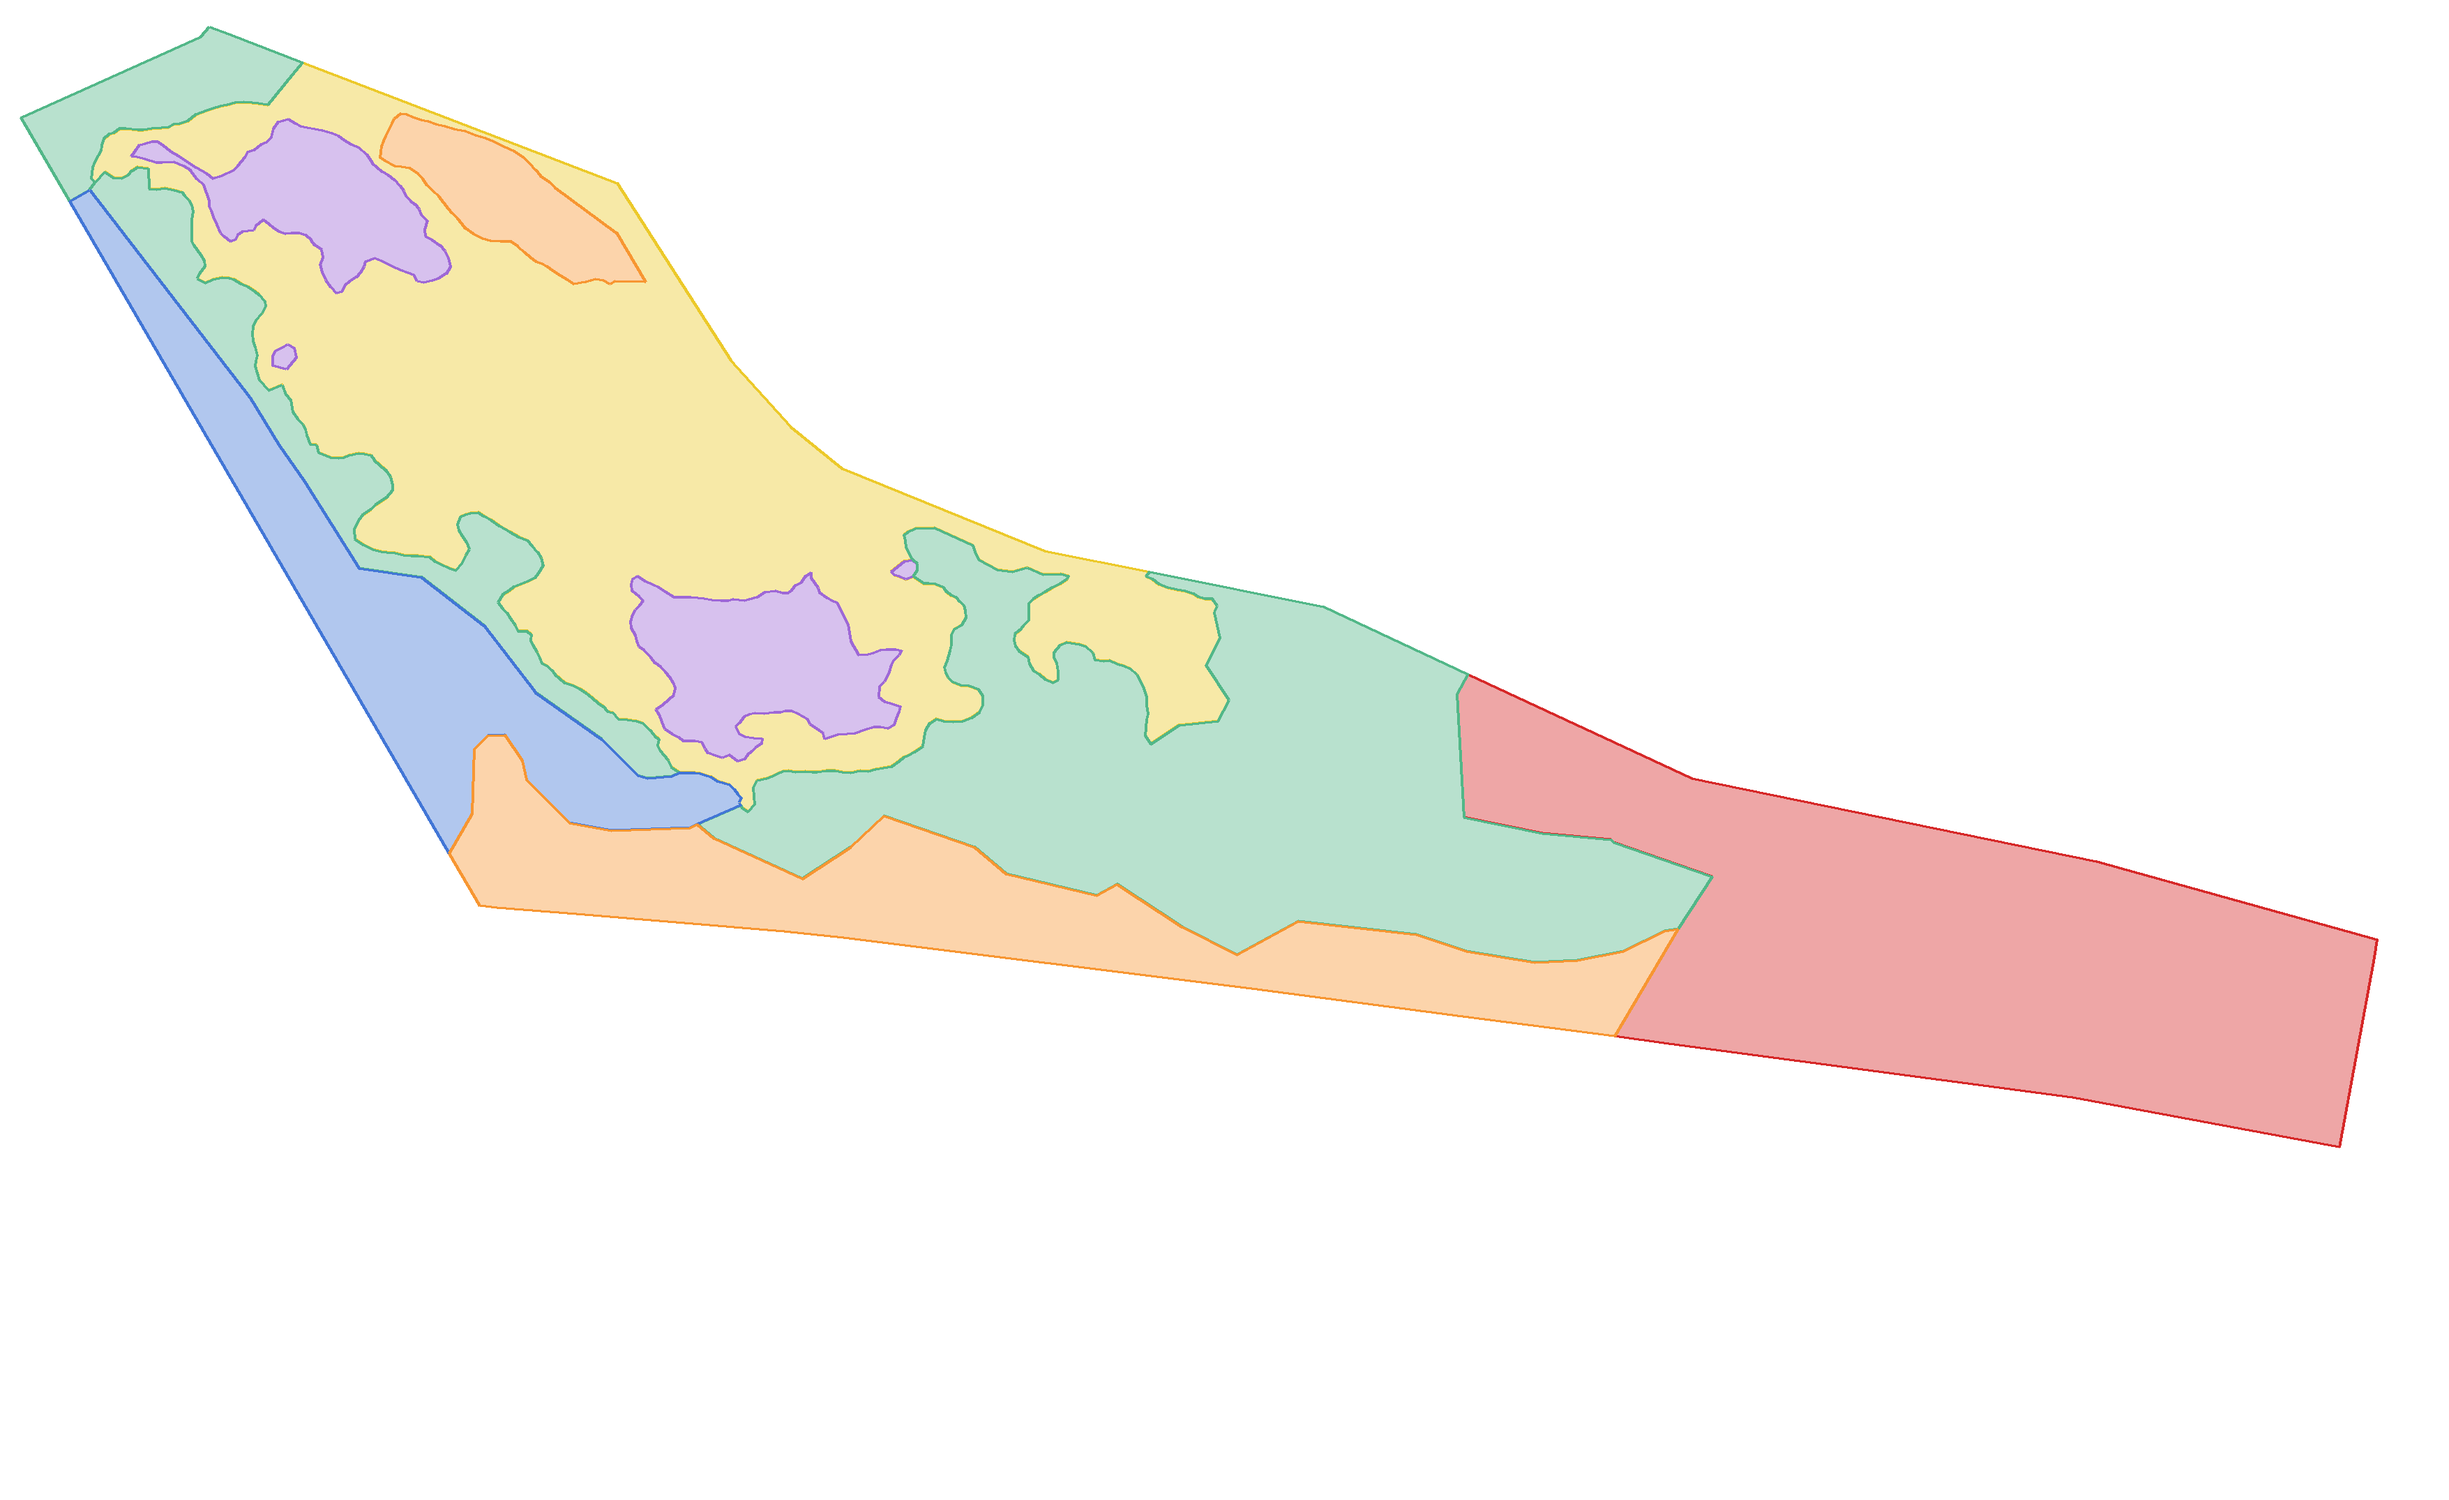
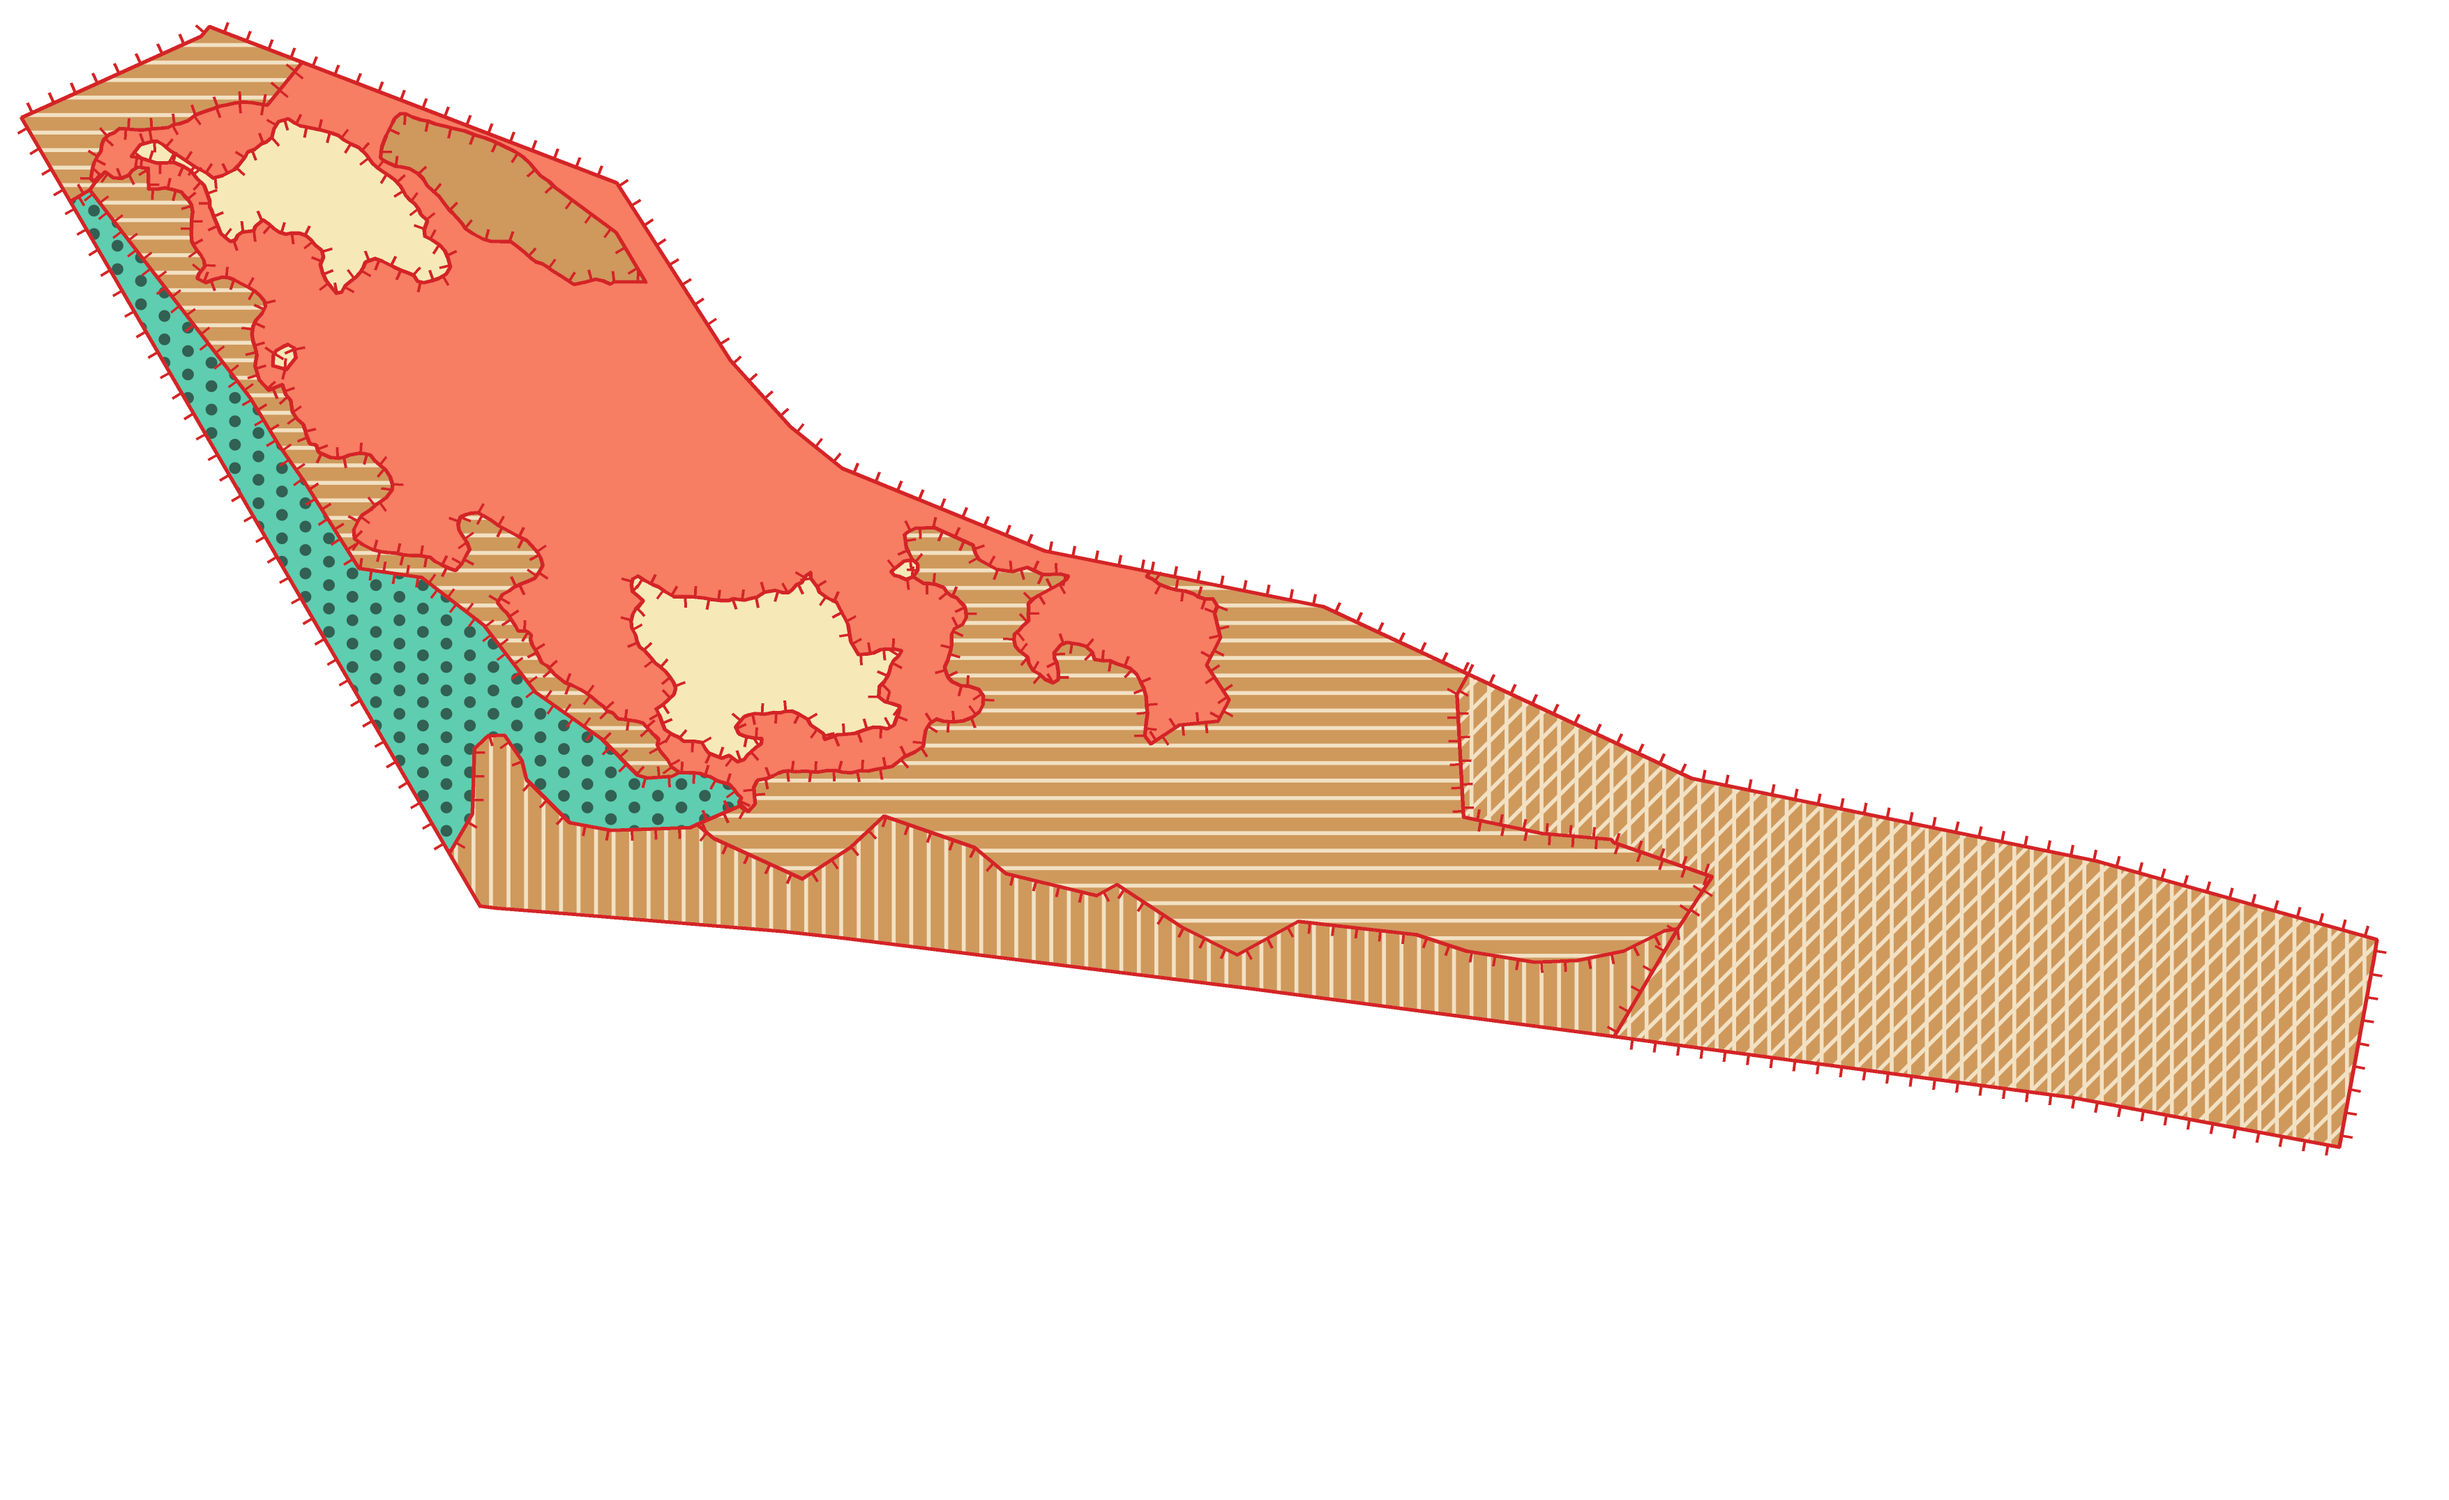
Biotopkartierung wie im Gutachten (Abb. 2, S. 5): Legendenfarben, Schraffuren, Punktmuster, §30-Umrandung
Karte lagegenau auf die GIS-Polygone gelegt; Linienabstand 1,79 m, Winkel und Farben aus der Karte gemessen.
Legende mit Muster-Chips, Biotopkartierung standardmäßig sichtbar, doctype/charset/viewport ergänzt.

Claude-Session: https://claude.ai/code/session_01YJJ4TzHkNMJj4hBy64fvjD

Changed region(s): [[0.0, 0.0, 0.9934, 0.7791]]

diff --git a/index.html b/index.html
@@ -1,3 +1,7 @@
+<!doctype html>
+<meta charset="utf-8">
+<meta name="viewport" content="width=device-width,initial-scale=1,viewport-fit=cover">
+<style>:root{color-scheme:light}html,body{margin:0}</style>
 <meta name="robots" content="noindex,nofollow">
 <title>Etterzhausen Baufeld 3D</title>
 <meta name="claude:viewport-fit-sides" content="cover">
@@ -119,7 +123,7 @@ details .warn{color:var(--warn)}
   <label class="chk"><input type="checkbox" data-l="kontext" checked><span>Umgebungsbauten<br><small>Höhe angenommen</small></span></label>
   <label class="chk"><input type="checkbox" data-l="baeume" checked><span>Bäume und Gehölze<br><small>schematisch, nicht kartiert</small></span></label>
   <label class="chk"><input type="checkbox" data-l="kontur">Höhenlinien 1 m</label>
-  <label class="chk"><input type="checkbox" data-l="biotop"><span class="sw" style="background:linear-gradient(90deg,#d62828 0 17%,#f79632 17% 34%,#52b788 34% 51%,#ecc92a 51% 68%,#4276d6 68% 84%,#9e68d6 84%)"></span><span>Biotopflächen farbig füllen<br><small>Umrisse sind mit „Beschriftung“ immer sichtbar</small></span></label>
+  <label class="chk"><input type="checkbox" data-l="biotop" checked><span class="sw" style="background:linear-gradient(90deg,#ca8d4a 0 25%,#f76e51 25% 50%,#4dc7a7 50% 75%,#f6e6b0 75%)"></span><span>Biotopkartierung wie im Gutachten<br><small>Farben und Schraffuren nach Legende, Abb. 2, S. 5</small></span></label>
   <label class="chk"><input type="checkbox" data-l="anbau"><span class="sw" style="background:repeating-linear-gradient(135deg,#b00020 0 2px,transparent 2px 5px)"></span>20 m Anbauverbot St 2660</label>
   <label class="chk"><input type="checkbox" data-l="eingriff"><span class="sw" style="background:#ffc800"></span><span>Eingriffszone<br><small>inkl. 2 m Arbeitsraum</small></span></label>
   <label class="chk"><input type="checkbox" data-l="labels" checked><span>Beschriftung mit Linien<br><small>Linie zeigt auf die gemeinte Fläche</small></span></label>
@@ -127,6 +131,7 @@ details .warn{color:var(--warn)}
   <h2>Biotopflächen</h2>
   <div id="biolist"></div>
   <p class="read" style="margin:6px 0 0">Alle 12 Kartierpolygone. Klick fliegt zur Fläche. Fläche = Kartierfläche des Polygons, nicht Flurstücksfläche.</p>
+  <p class="read" style="margin:6px 0 0"><span class="sw" style="display:inline-block;width:12px;height:12px;vertical-align:-2px;border:1.5px solid #d42426;background:transparent"></span> Rote Umrandung mit Zähnchen nach außen = geschützt nach § 30 BNatSchG (PAR30 = Ja). Darstellung wie in der Karte des Gutachtens (FFP, Abb. 2, S. 5), Farben und Schraffuren aus deren Legende. Die Karte ist lagegenau auf die Kartierpolygone gelegt, Codes B112 und L122 nach Fassung vom 27.10.2026.</p>
 
   <h2>Sonnenstand</h2>
   <select id="season" aria-label="Jahreszeit">
@@ -175,7 +180,7 @@ import {mergeVertices} from 'three/addons/utils/BufferGeometryUtils.js';
 const $=(s,r=document)=>r.querySelector(s), $$=(s,r=document)=>[...r.querySelectorAll(s)];
 const coarse=matchMedia('(pointer:coarse)').matches;
 const enu=(p)=>new THREE.Vector3(p[0],p[2],-p[1]);       // lokal (E,N,U) -> three (x,y,z)
-const S={mode:'planung',L:{waende:1,fahrzeuge:1,kontext:1,baeume:1,kontur:0,biotop:0,anbau:0,eingriff:0,labels:1},hour:15.5,season:'sommer'};
+const S={mode:'planung',L:{waende:1,fahrzeuge:1,kontext:1,baeume:1,kontur:0,biotop:1,anbau:0,eingriff:0,labels:1},hour:15.5,season:'sommer'};
 
 // ---------- Renderer / Szene
 const stage=$('#stage');
@@ -309,7 +314,7 @@ function ovTex(f){const t=texL.load(f);t.colorSpace=THREE.SRGBColorSpace;t.flipY
 const OV={biotop:ovTex('ov_biotop.png'),umriss:ovTex('ov_biotop_lines.png'),anbau:ovTex('ov_anbauverbot.png'),eingriff:ovTex('ov_eingriff.png')};
 const ovMeshes={bestand:{},planung:{}};
 for(const mode of ['bestand','planung']) for(const k of Object.keys(OV)){
-  const m=new THREE.Mesh(T[mode].geometry,new THREE.MeshBasicMaterial({map:OV[k],transparent:true,depthWrite:false,toneMapped:false,polygonOffset:true,polygonOffsetFactor:-3,polygonOffsetUnits:-3,opacity:k==='eingriff'?0.9:1}));
+  const m=new THREE.Mesh(T[mode].geometry,new THREE.MeshBasicMaterial({map:OV[k],transparent:true,depthWrite:false,toneMapped:false,polygonOffset:true,polygonOffsetFactor:-3,polygonOffsetUnits:-3,opacity:k==='eingriff'?0.9:(k==='biotop'?0.88:1)}));
   m.renderOrder=3; m.visible=false; scene.add(m); ovMeshes[mode][k]=m;
 }
 
@@ -493,9 +498,18 @@ function focusBio(b){
   $$('#cams .btn').forEach(x=>x.setAttribute('aria-pressed','false'));
   if(innerWidth<=760)$('#panel').classList.add('closed');
 }
+// Legenden-Chips wie im Gutachten (Abb. 2, S. 5): Linienabstand/-richtung nach Karte
+const OCK='#ca8d4a', CRM='#f0debc';
+const swatch=code=>({
+  B222:OCK, B111:`repeating-linear-gradient(180deg,${OCK} 0 3px,${CRM} 3px 4px)`,
+  B112:`repeating-linear-gradient(90deg,${OCK} 0 3px,${CRM} 3px 4px)`,
+  L122:`repeating-linear-gradient(90deg,transparent 0 3px,${CRM} 3px 4px),repeating-linear-gradient(135deg,transparent 0 3px,${CRM} 3px 4px),${OCK}`,
+  N122:`radial-gradient(circle at 50% 50%,#1b4e40 0 1.3px,transparent 1.6px) 0 0/5px 5px,#4dc7a7`,
+  G312:'#f76e51', O112:'#f6e6b0'
+})[code]||'#999';
 for(const b of meta.bios){
   const r=document.createElement('button'); r.className='bio-row'; r.type='button';
-  r.innerHTML=`<span class="sw" style="background:${b.c}"></span><span><b>Nr. ${b.n} · ${b.code}</b> ${b.name}${b.alt?` (bisher ${b.alt})`:''}<small>PAR30 = ${b.par} · ${b.area.toLocaleString('de-DE')} m²</small></span>`;
+  r.innerHTML=`<span class="sw" style="background:${swatch(b.code)}"></span><span><b>Nr. ${b.n} · ${b.code}</b> ${b.name}${b.alt?` (bisher ${b.alt})`:''}<small>PAR30 = ${b.par} · ${b.area.toLocaleString('de-DE')} m²</small></span>`;
   r.onclick=()=>focusBio(b); $('#biolist').appendChild(r);
 }
 
